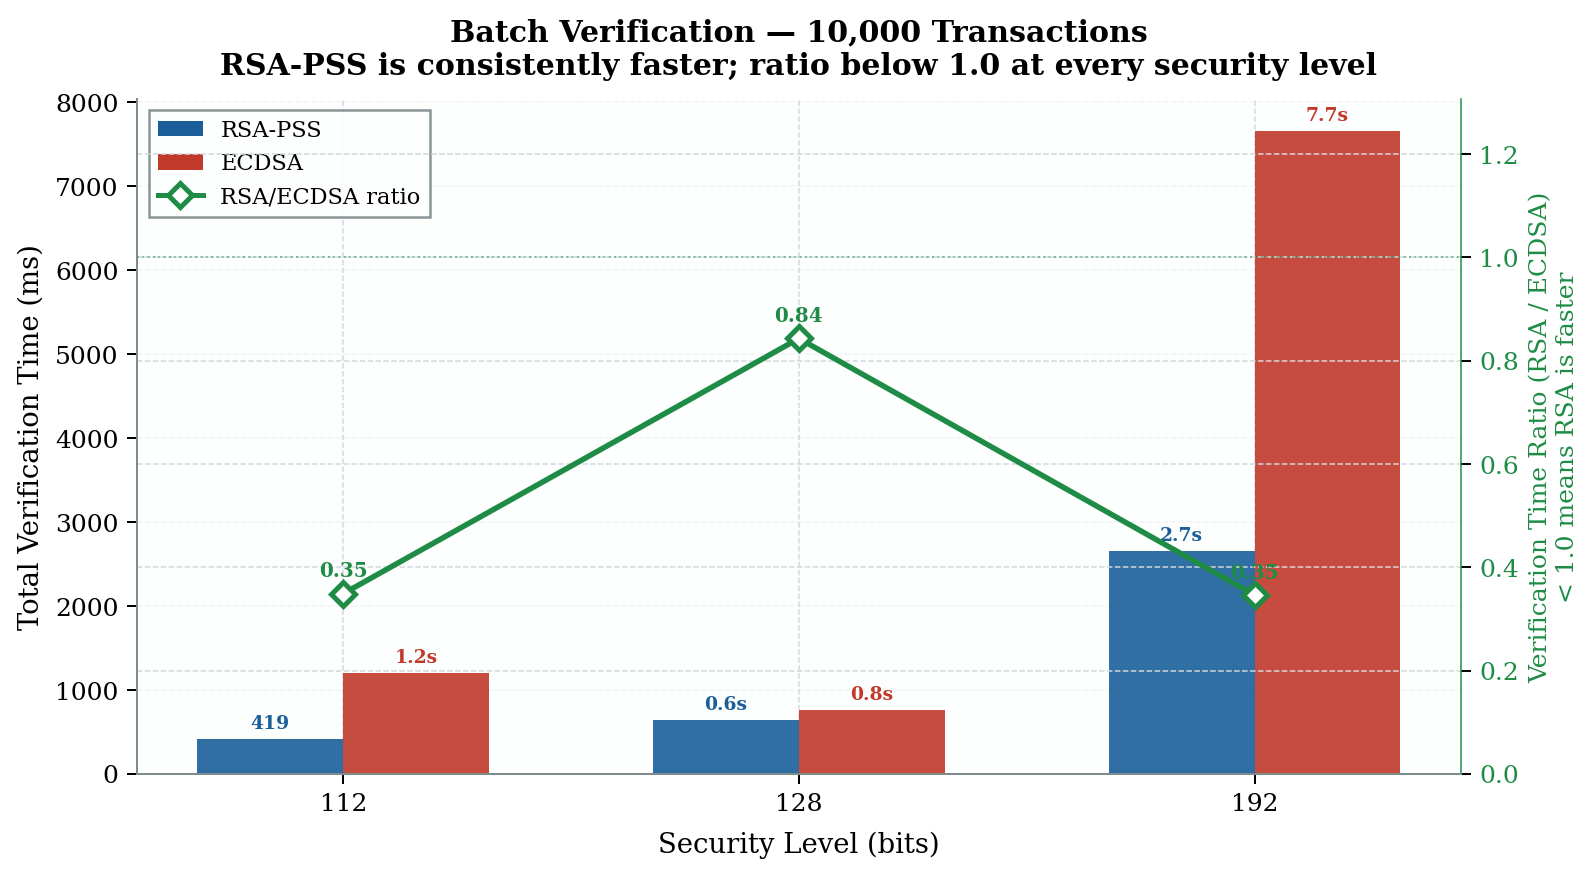
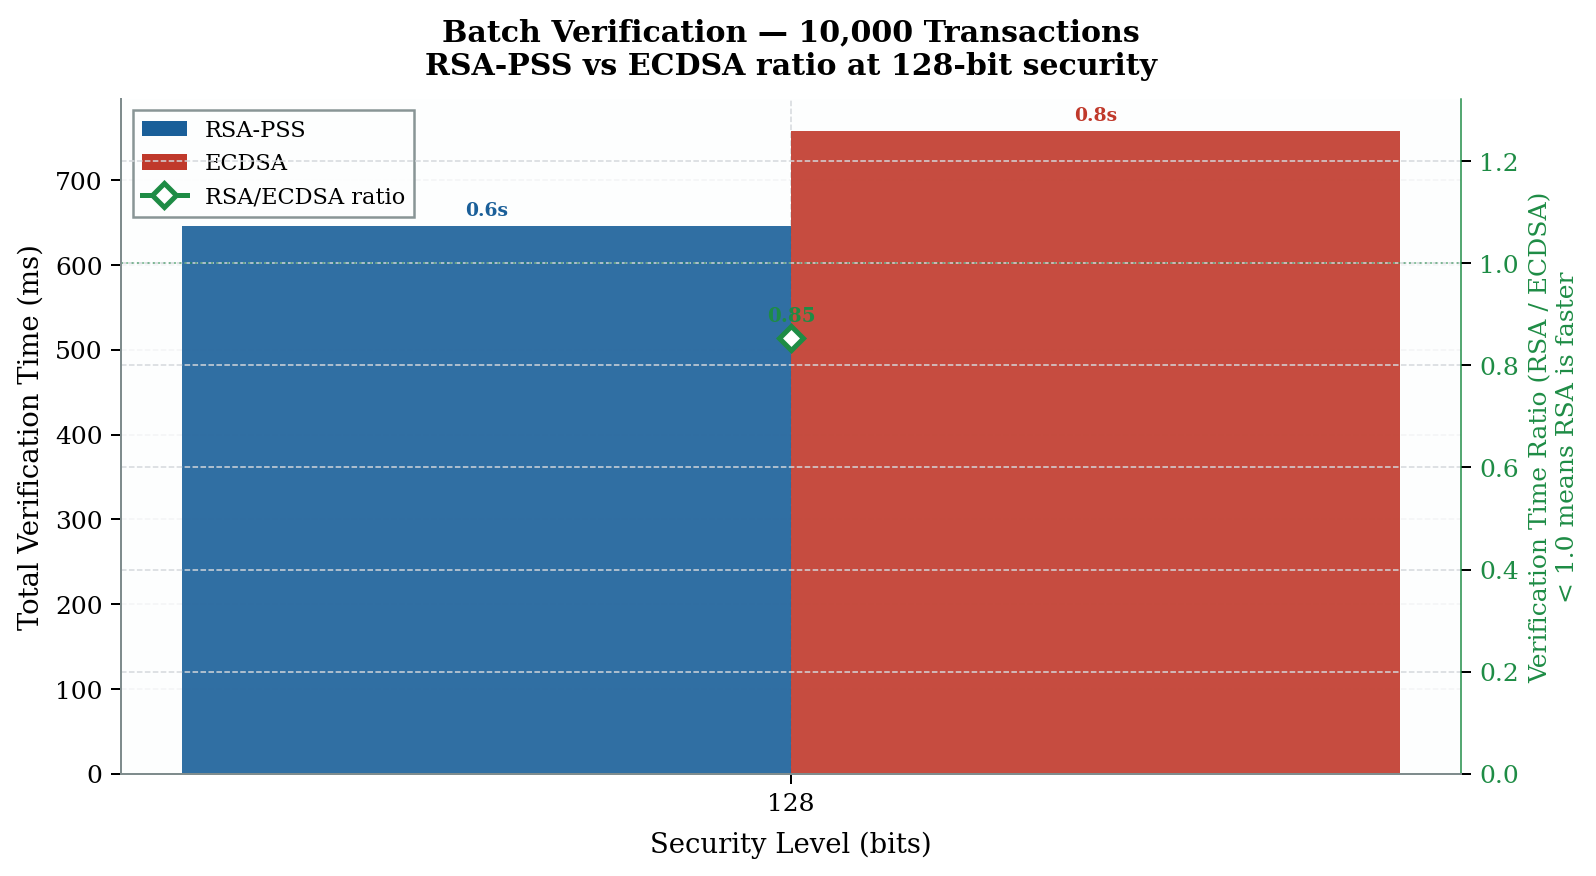
Limit benchmark outputs to 128-bit by commenting out other security levels
Agent-Logs-Url: https://github.com/ThatDeparted2061/Blockchain-signature-benchmark/sessions/7d756730-34df-4a5d-90f0-8fbbd1620f00

diff --git a/benchmark_complete.py b/benchmark_complete.py
@@ -167,24 +167,24 @@ def _xtick_labels(ax, bits: list, font_kw: dict | None = None) -> None:
 # ============================================================================
 
 SECURITY_LEVELS = [
-    {
-        "bits": 112,
-        "rsa": 2048,
-        "ecdsa": "secp224r1",
-        "notes": "secp224r1 baseline (~112-bit)",
-    },
+    # {
+    #     "bits": 112,
+    #     "rsa": 2048,
+    #     "ecdsa": "secp224r1",
+    #     "notes": "secp224r1 baseline (~112-bit)",
+    # },
     {
         "bits": 128,
         "rsa": 3072,
         "ecdsa": "P-256",
         "notes": "Modern standard baseline",
     },
-    {
-        "bits": 192,
-        "rsa": 7680,
-        "ecdsa": "P-384",
-        "notes": "High security",
-    },
+    # {
+    #     "bits": 192,
+    #     "rsa": 7680,
+    #     "ecdsa": "P-384",
+    #     "notes": "High security",
+    # },
 ]
 
 CURVES: dict = {
@@ -795,7 +795,7 @@ def generate_graphs(results: list[dict], batch_results: list[dict],
     ax.set_xticklabels(paired_ticks, fontsize=9)
     ax.set_xlabel("Security Level (RSA key size / ECDSA curve)", labelpad=6)
     ax.set_ylabel("Mean Verification Time (ms) ± 1σ")
-    ax.set_title("Single-Operation Verification: RSA-PSS Is Faster at All Security Levels\n"
+    ax.set_title("Single-Operation Verification: RSA-PSS vs ECDSA at 128-bit Security\n"
                  "— structural advantage from fixed-cost public exponent e = 65537")
     ax.legend(handles=_legend_handles(), loc="upper left")
     _save(fig, "verification_time_single.png")
@@ -828,7 +828,7 @@ def generate_graphs(results: list[dict], batch_results: list[dict],
     ax.set_xlabel("Security Level (RSA key size / ECDSA curve)", labelpad=6)
     ax.set_ylabel("Total CPU Time — Sign + Verify Phase (s)")
     ax.set_title("CPU Time: RSA-PSS Consumes More CPU, Dominated by Signing\n"
-                 "— at 192-bit the 7680-bit private exponent drives the gap")
+                 "— compared at 128-bit security (RSA-3072 vs P-256)")
     ax.legend(handles=_legend_handles(), loc="upper left")
     ax.text(0.97, 0.97,
             "RSA signing uses the full\nprivate exponent d.\n"
@@ -863,8 +863,8 @@ def generate_graphs(results: list[dict], batch_results: list[dict],
     ax.set_xticklabels(paired_ticks, fontsize=9)
     ax.set_xlabel("Security Level (RSA key size / ECDSA curve)", labelpad=6)
     ax.set_ylabel("Process RSS Increase (MB)")
-    ax.set_title("Memory Footprint: Comparable at 128-bit and 192-bit Security\n"
-                 "— 112-bit RSA shows higher allocation from 2048-bit key material")
+    ax.set_title("Memory Footprint at 128-bit Security\n"
+                 "— baseline process RSS increase for RSA-PSS vs ECDSA")
     ax.legend(handles=_legend_handles(), loc="upper right")
     ax.text(0.97, 0.55,
             "Memory differences are\nnot sustained — both\nschemes are\ncomputation-bound.",
@@ -1020,7 +1020,7 @@ def generate_graphs(results: list[dict], batch_results: list[dict],
         ax1.grid(axis="y", alpha=0.25, zorder=0)
         ax1.set_title(
             f"Batch Verification — {tx_count:,} Transactions\n"
-            f"RSA-PSS is consistently faster; ratio below 1.0 at every security level")
+            f"RSA-PSS vs ECDSA ratio at 128-bit security")
 
         h1, l1 = ax1.get_legend_handles_labels()
         ratio_handle = plt.Line2D([0], [0], color=RATIO_COLOR, marker="D",
@@ -1039,7 +1039,7 @@ def generate_graphs(results: list[dict], batch_results: list[dict],
         _save(fig, fname)
 
     # ════════════════════════════════════════════════════════════════════════
-    # 8. RATIO SUMMARY (all batch sizes × all security levels)
+    # 8. RATIO SUMMARY (all batch sizes × selected security levels)
     # ════════════════════════════════════════════════════════════════════════
     # Use a sequential colormap so the 6 tx-count lines are distinguishable
     import matplotlib.cm as cm
@@ -1073,8 +1073,8 @@ def generate_graphs(results: list[dict], batch_results: list[dict],
     ax.set_xlabel("Security Level (bits)", labelpad=6)
     ax.set_ylabel("Verification Time Ratio (RSA / ECDSA)\nLower = RSA faster")
     ax.set_title(
-        "Batch Verification Ratio Across All Security Levels and Transaction Counts\n"
-        "— ratio is stable across batch sizes, confirming a per-operation advantage")
+        "Batch Verification Ratio at 128-bit Security Across Transaction Counts\n"
+        "— ratio remains stable across batch sizes")
     ax.legend(ncol=4, fontsize=8.5, loc="upper center",
               bbox_to_anchor=(0.5, -0.18), frameon=True)
 
